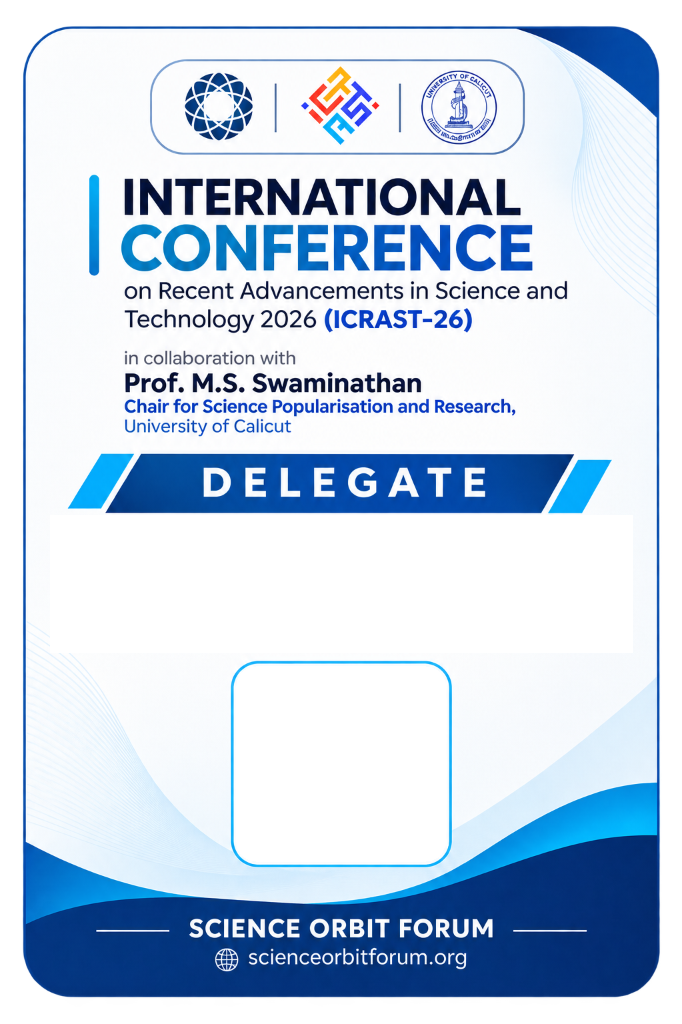
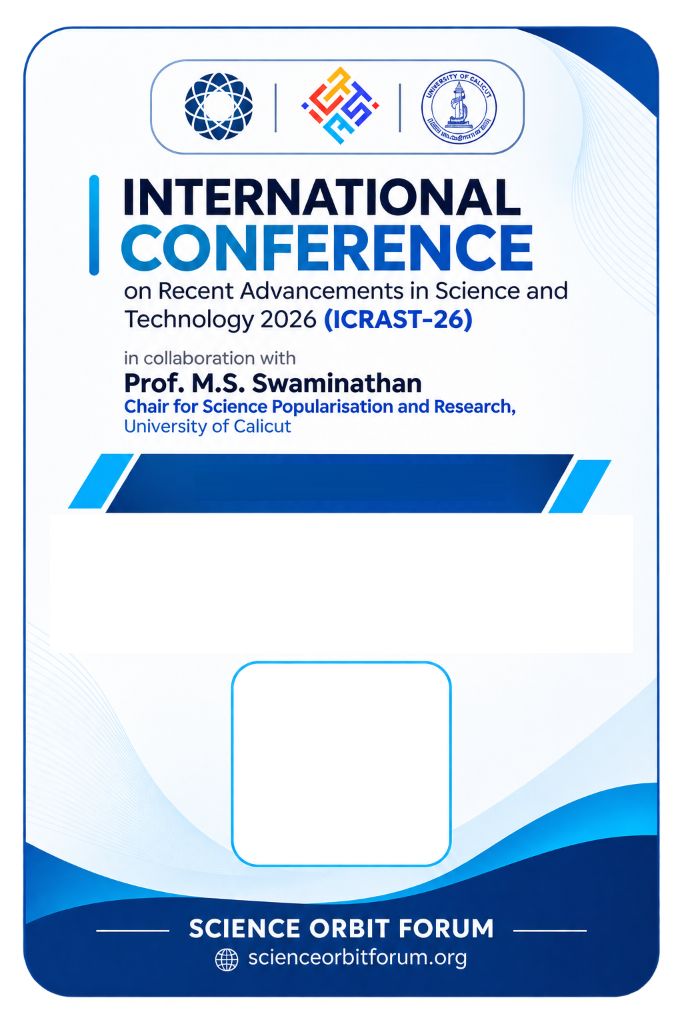
fix(icrast): update badge role label from Delegate to Participant

Changed region(s): [[0.4619, 0.4375, 0.7082, 0.5], [0.2771, 0.4375, 0.4311, 0.5]]

diff --git a/src/pages/IcrastBadgePage.tsx b/src/pages/IcrastBadgePage.tsx
@@ -341,7 +341,32 @@ export default function IcrastBadgePage() {
       });
       ctx.drawImage(templateImg, 0, 0, width, height);
 
-      // 2. Dynamic Candidate Full Name (Centered at x = 341, y = 556, large prominent font with clean gap below DELEGATE banner)
+      // 1.5. Dynamic Badge Role Banner: PARTICIPANT (Centered at x = 341, y = 482)
+      ctx.fillStyle = '#ffffff';
+      ctx.textAlign = 'center';
+      ctx.textBaseline = 'middle';
+      ctx.font = '800 24px "Plus Jakarta Sans", sans-serif';
+      const roleText = 'PARTICIPANT';
+      const letterSpacing = 4.5;
+      if ('letterSpacing' in ctx) {
+        (ctx as unknown as { letterSpacing: string }).letterSpacing = `${letterSpacing}px`;
+        ctx.fillText(roleText, 341, 482);
+        (ctx as unknown as { letterSpacing: string }).letterSpacing = '0px';
+      } else {
+        let totalW = 0;
+        for (let i = 0; i < roleText.length; i++) {
+          totalW += ctx.measureText(roleText[i]).width + (i < roleText.length - 1 ? letterSpacing : 0);
+        }
+        let curX = 341 - totalW / 2;
+        for (let i = 0; i < roleText.length; i++) {
+          const char = roleText[i];
+          const charW = ctx.measureText(char).width;
+          ctx.fillText(char, curX + charW / 2, 482);
+          curX += charW + letterSpacing;
+        }
+      }
+
+      // 2. Dynamic Candidate Full Name (Centered at x = 341, y = 556, large prominent font with clean gap below PARTICIPANT banner)
       ctx.fillStyle = '#081e3e';
       ctx.textAlign = 'center';
       ctx.textBaseline = 'middle';
@@ -417,7 +442,7 @@ export default function IcrastBadgePage() {
       ctx.drawImage(qrImg, qrX, qrY, qrSize, qrSize);
 
       // 5. Trigger High-Resolution Download
-      const filename = `ICRAST26-Badge-${(delegate.delegateId || 'Delegate').replace(/[^a-zA-Z0-9_-]/g, '_')}.png`;
+      const filename = `ICRAST26-Badge-${(delegate.delegateId || 'Participant').replace(/[^a-zA-Z0-9_-]/g, '_')}.png`;
 
       canvas.toBlob((blob) => {
         if (!blob) return;
@@ -1017,7 +1042,35 @@ export default function IcrastBadgePage() {
                       userSelect: 'none',
                     }}
                   >
-                    {/* 1. Dynamic Candidate Full Name - Prominent & Large with extra gap after DELEGATE */}
+                    {/* 0. Dynamic Badge Role Banner: PARTICIPANT */}
+                    <div
+                      style={{
+                        position: 'absolute',
+                        top: '47.07%',
+                        left: '4%',
+                        right: '4%',
+                        transform: 'translateY(-50%)',
+                        textAlign: 'center',
+                        pointerEvents: 'none',
+                      }}
+                    >
+                      <div
+                        style={{
+                          fontFamily: '"Plus Jakarta Sans", sans-serif',
+                          fontWeight: 800,
+                          fontSize: 'clamp(0.82rem, 3.2vw, 1.08rem)',
+                          color: '#ffffff',
+                          letterSpacing: '0.22em',
+                          textTransform: 'uppercase',
+                          display: 'inline-block',
+                          paddingLeft: '0.22em',
+                        }}
+                      >
+                        PARTICIPANT
+                      </div>
+                    </div>
+
+                    {/* 1. Dynamic Candidate Full Name - Prominent & Large with extra gap after PARTICIPANT */}
                     <div
                       style={{
                         position: 'absolute',
@@ -1224,7 +1277,7 @@ export default function IcrastBadgePage() {
                     <div style={{ display: 'flex', alignItems: 'flex-start', justifyContent: 'space-between', gap: '1rem', flexWrap: 'wrap' }}>
                       <div>
                         <div style={{ fontSize: '0.72rem', fontWeight: 700, letterSpacing: '0.06em', color: '#185ADB', textTransform: 'uppercase', marginBottom: '0.35rem' }}>
-                          OFFICIAL CONFERENCE DELEGATE
+                          OFFICIAL CONFERENCE PARTICIPANT
                         </div>
                         <h2 style={{ fontSize: '1.85rem', fontWeight: 850, color: '#081e3e', margin: 0, lineHeight: 1.15, letterSpacing: '-0.02em' }}>
                           {delegate.fullName}
